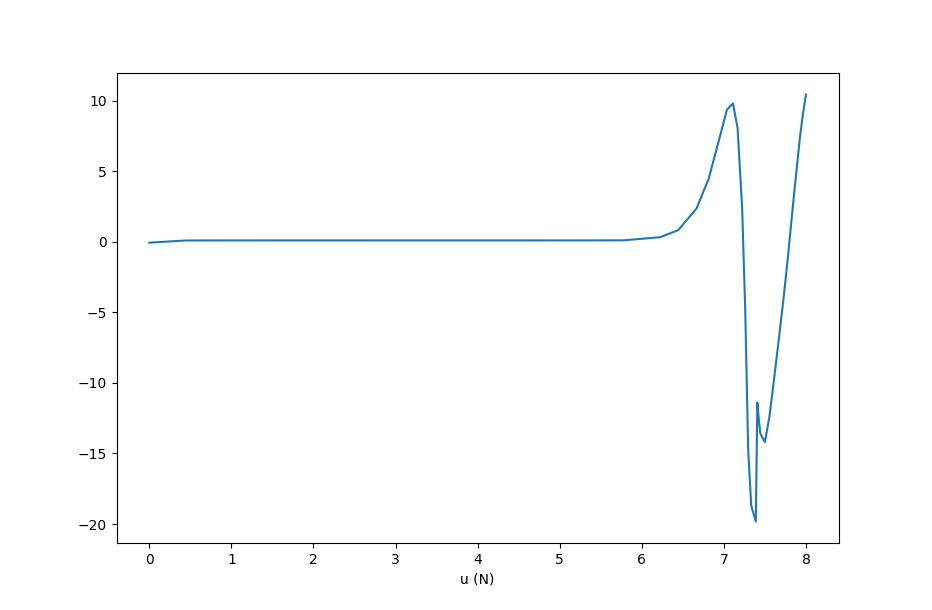
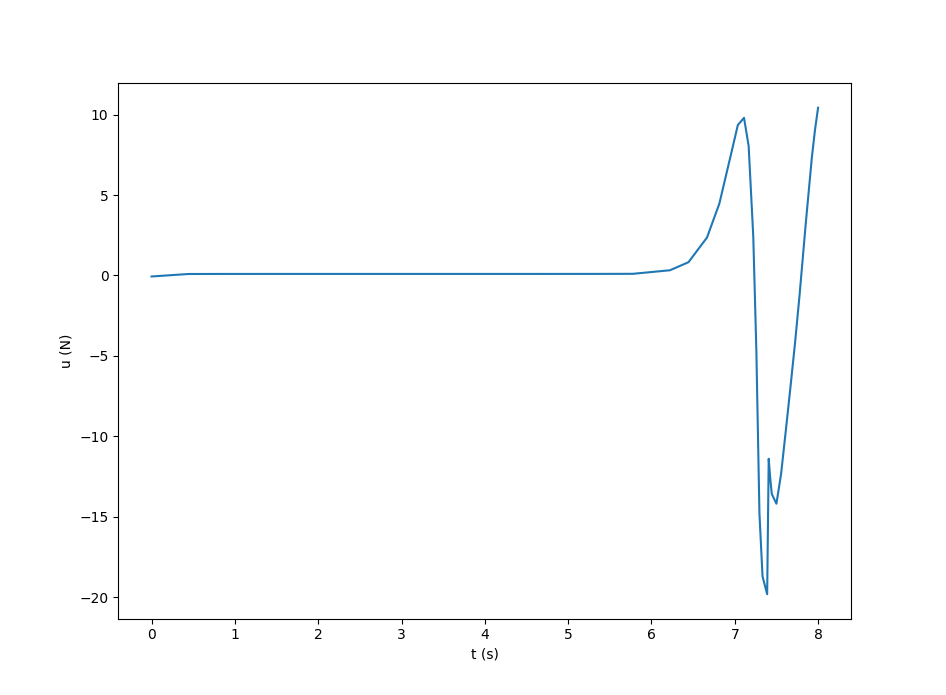
plot update

diff --git a/plot_me.py b/plot_me.py
@@ -31,7 +31,7 @@ fig, ax5 = plt.subplots()
 
 ax5.plot(data_u[:,0],data_u[:,1])
 ax5.set_xlabel("t (s)")
-ax5.set_xlabel("u (N)")
+ax5.set_ylabel("u (N)")
 
 
 # extents = np.array([getattr(ax, 'get_{}lim'.format(dim))() for dim in 'xyz'])
